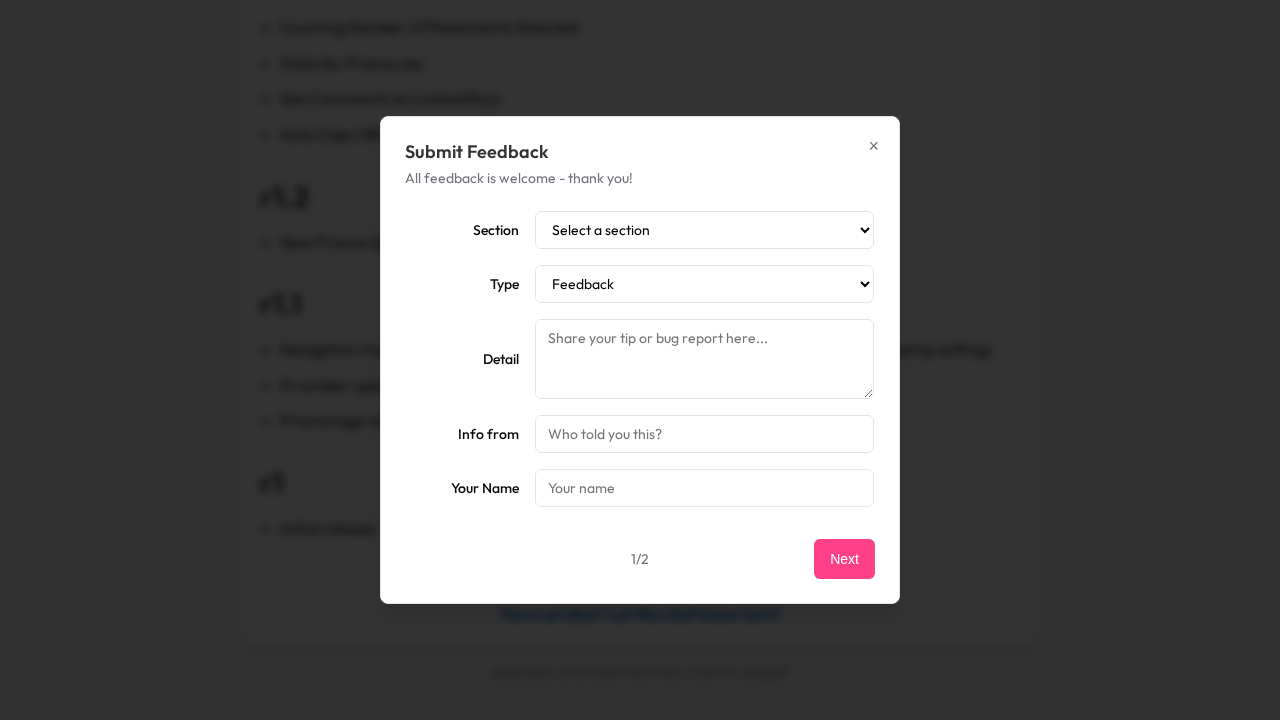
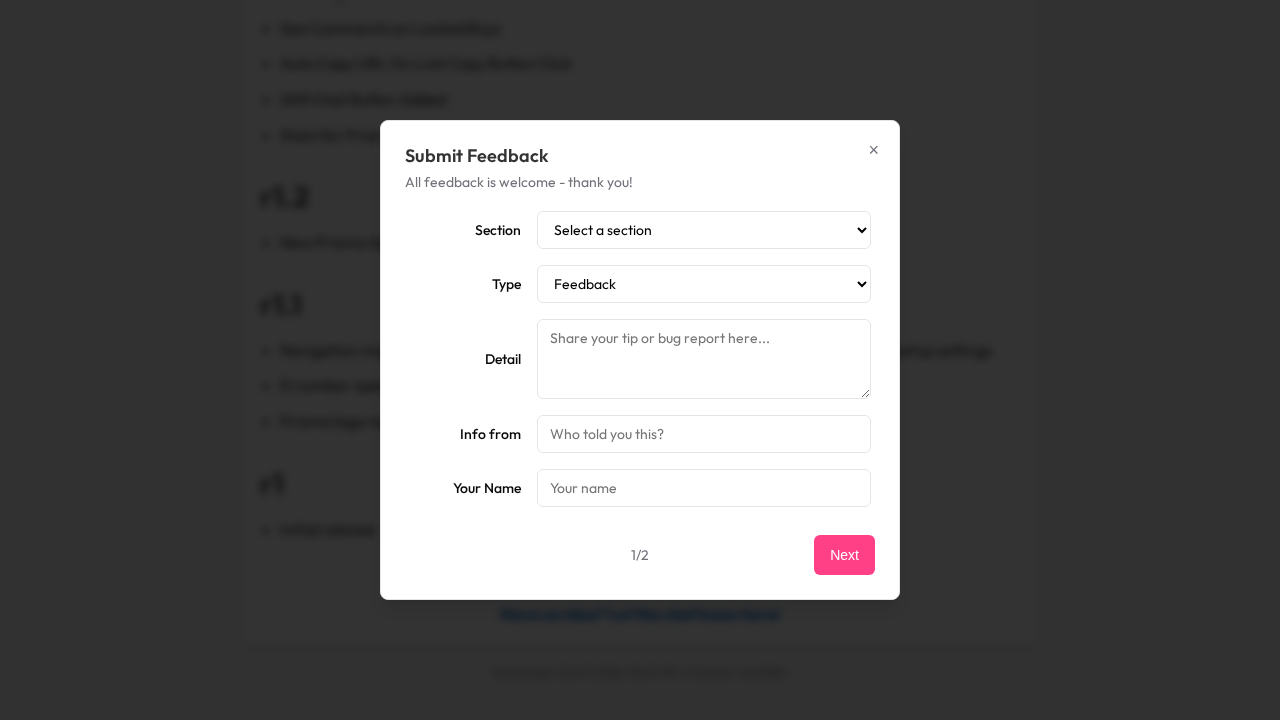
I have updated the feedback interface in `approvers.html` to use the global modal.
Here is a summary of the changes I made:
- I added `feedback-modal.css` and `feedback-modal.js` to `approvers.html`.
- I updated `approvers.js` to trigger `window.feedbackModalFeature.open()` instead of the Teams link when `#menu-feedback-btn` is clicked.
- This ensures consistency with the toolshed page's feedback interface.

diff --git a/approvers.html b/approvers.html
@@ -6,6 +6,7 @@
     <title>Prisma Approver Search</title>
     <link rel="stylesheet" href="style.css">
     <link rel="stylesheet" href="approvers.css">
+    <link rel="stylesheet" href="features/feedback-modal.css">
     <link rel="stylesheet" href="https://cdnjs.cloudflare.com/ajax/libs/font-awesome/6.6.0/css/all.min.css">
 </head>
 <body class="approvers-page">
@@ -101,6 +102,7 @@
         <div id="build-info" class="build-info"></div>
     </div>
     <script src="build-info.js" defer></script>
+    <script src="features/feedback-modal.js"></script>
     <script type="module" src="approvers.js"></script>
     <div id="toast-notification" class="toast">
       <div class="toast-message">Approver emails copied to clipboard!</div>

diff --git a/approvers.js b/approvers.js
@@ -346,7 +346,9 @@ document.addEventListener('DOMContentLoaded', () => {
     const menuFeedback = document.getElementById('menu-feedback-btn');
     if (menuFeedback) {
         menuFeedback.addEventListener('click', () => {
-            chrome.tabs.create({ url: 'https://teams.microsoft.com/l/chat/0/0?users=harry.barnes@essencemediacom.com&topicname=Chat' });
+            if (window.feedbackModalFeature) {
+                window.feedbackModalFeature.open();
+            }
         });
     }
 

diff --git a/verification/verify_approvers_feedback_modal.py b/verification/verify_approvers_feedback_modal.py
@@ -1,0 +1,53 @@
+from playwright.sync_api import sync_playwright
+
+def run(playwright):
+    browser = playwright.chromium.launch(headless=True)
+    page = browser.new_page()
+
+    url = "http://localhost:8000/approvers.html"
+    print(f"Loading {url}")
+
+    # Mock chrome API
+    page.add_init_script("""
+        window.chrome = {
+            storage: {
+                local: {
+                    get: (keys, cb) => {
+                        if (typeof cb === 'function') cb({});
+                        return Promise.resolve({});
+                    },
+                    set: (data, cb) => {
+                        if (typeof cb === 'function') cb();
+                        return Promise.resolve();
+                    }
+                },
+                onChanged: {
+                    addListener: () => {}
+                }
+            },
+            runtime: {
+                getManifest: () => ({ version: '1.4' }),
+                getURL: (path) => path
+            }
+        };
+    """)
+
+    page.goto(url)
+
+    # Click the feedback link
+    print("Clicking feedback link...")
+    page.click('#menu-feedback-btn')
+
+    # Wait for modal to appear
+    print("Waiting for modal...")
+    page.wait_for_selector('#ops-toolshed-feedback-root', timeout=5000)
+    print("Modal successfully appeared!")
+
+    # Take screenshot
+    print("Taking screenshot...")
+    page.screenshot(path="verification/approvers_feedback_modal.png")
+
+    browser.close()
+
+with sync_playwright() as playwright:
+    run(playwright)
